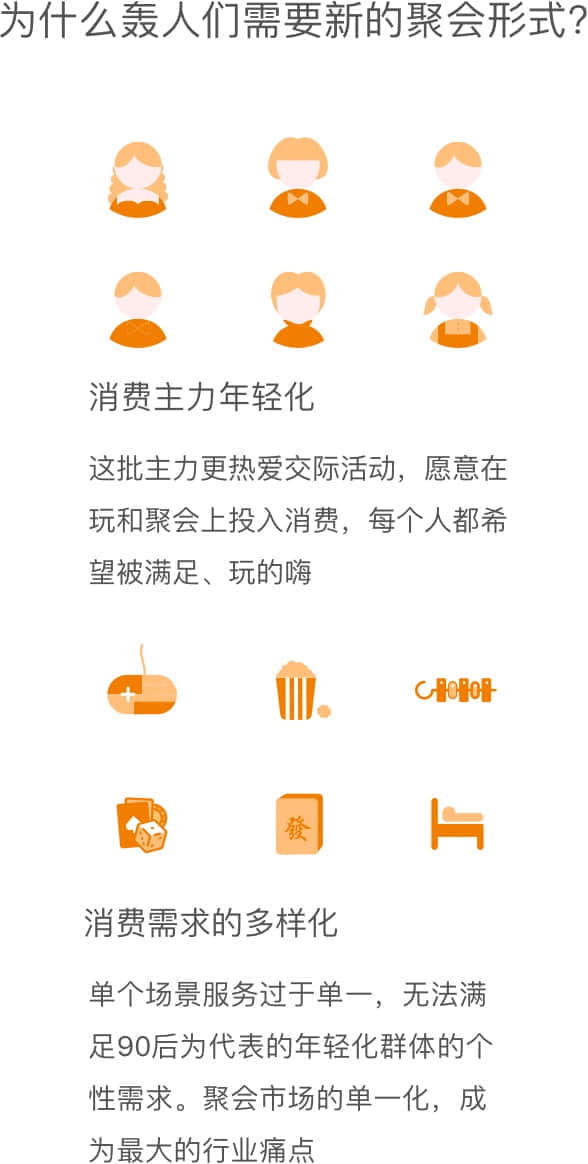
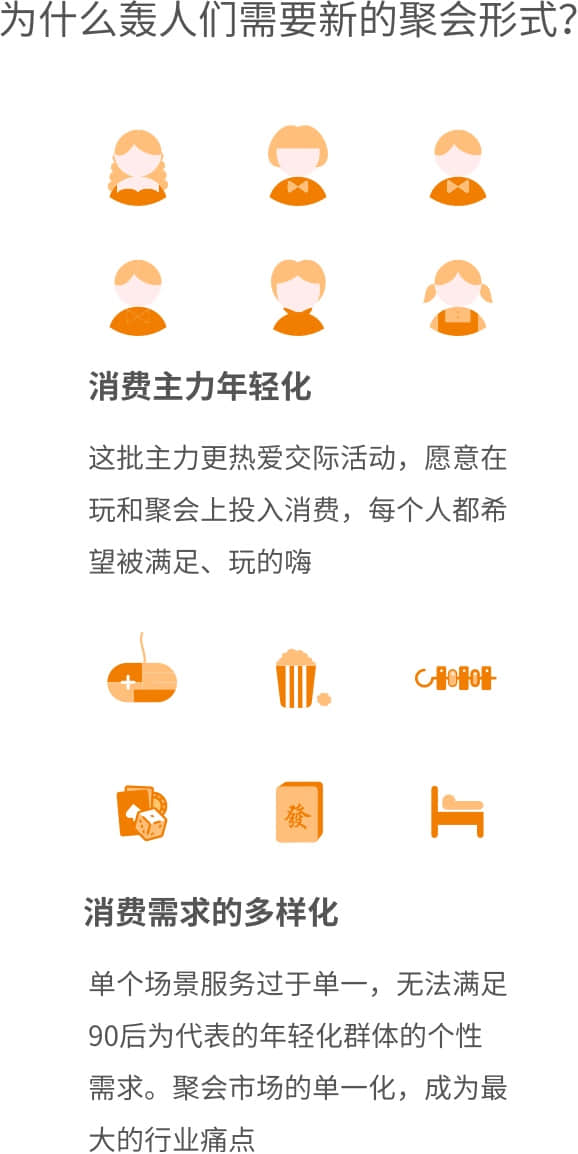
add

diff --git a/src/pages/home.vue b/src/pages/home.vue
@@ -25,17 +25,17 @@
                     <div class="p1" :layout="isMobile?'column':'row'" style="width:80%;">
                         <div class="p1-item text-center" flex="1">
                             <img src="../../static/images/h-s2-1.png" alt="">
-                            <div class="title2 text-l2">轰趴</div>
+                            <div class="title2 text-l2 font-bold">什么是轰趴</div>
                             <span class="p2 text-l1">将单一娱乐场地或活动进行集中，让人在一个空间能体验多个空间的娱乐</span>
                         </div>
                         <div class="p1-item text-center" flex="1">
                             <img src="../../static/images/h-s2-2.png" alt="">
-                            <div class="title2 text-l2">行业机遇</div>
+                            <div class="title2 text-l2 font-bold">行业机遇</div>
                             <span class="p2 text-l1">聚会需求大，市场聚会方式单一，已有的轰趴服务质量不一，极待升级</span>
                         </div>
                         <div class="p1-item text-center" flex="1">
                             <img src="../../static/images/h-s2-3.png" alt="">
-                            <div class="title2 text-l2">市场环境</div>
+                            <div class="title2 text-l2 font-bold">市场环境</div>
                             <span class="p2 text-l1">消费主力年轻化，消费需求的多样化，消费能力水平日渐提高</span>
                         </div>
                     </div>
@@ -50,7 +50,7 @@
                         <svg class="icon lingdai" aria-hidden="true">
                             <use xlink:href="#icon-lingdai"></use>
                         </svg>
-                        <div class="title text-l2">品牌宗旨</div>
+                        <div class="title text-l2 font-bold">品牌宗旨</div>
                         <span class="text-l2">一站式服务</span><br>
                         <span class="text-l2">标准化管理</span><br>
                         <span class="text-l2">管家式服务</span>
@@ -59,7 +59,7 @@
                         <svg class="icon tianping" aria-hidden="true">
                             <use xlink:href="#icon-tianping"></use>
                         </svg>
-                        <div class="title text-l2">竞争优势</div>
+                        <div class="title text-l2 font-bold">竞争优势</div>
                         <span class="text-l2">强大而健全的团队</span><br>
                         <span class="text-l2">强大的品牌影响力</span><br>
                         <span class="text-l2">前沿的服务理念</span>
@@ -68,7 +68,7 @@
                         <svg class="icon duoyuanhua" aria-hidden="true">
                             <use xlink:href="#icon-duoyuanhua"></use>
                         </svg>
-                        <div class="title text-l2">多元化盈利</div>
+                        <div class="title text-l2 font-bold">多元化盈利</div>
                         <span class="text-l2">拓展轰趴周边的盈利模式</span><br>
                         <span class="text-l2">挖掘更新鲜的玩法</span><br>
                         <span class="text-l2">多元化盈利</span>
@@ -77,7 +77,7 @@
                         <svg class="icon zhanlue" aria-hidden="true">
                             <use xlink:href="#icon-zhanlue"></use>
                         </svg>
-                        <div class="title text-l2">战略优势</div>
+                        <div class="title text-l2 font-bold">战略优势</div>
                         <span class="text-l2">2个基本点：装修+定制</span><br>
                         <span class="text-l2">3大核心：服务+SEO+地推</span>
                     </div>
@@ -92,7 +92,7 @@
                         <div layout="column" layout-align="start center">
                             <div class="text-left">
                                 <span class="fs-18" style="line-height: 25px;">已有加盟店</span><br>
-                                <span class="fs-36" style="line-height: 50px;">27个</span>
+                                <span class="fs-36 font-bold" style="line-height: 50px;">27个</span>
                             </div>
                         </div>
                     </div>
@@ -100,7 +100,7 @@
                         <div layout="column" layout-align="start center">
                             <div class="text-left">
                                 <span class="fs-18" style="line-height: 25px;">已入驻</span><br>
-                                <span class="fs-36" style="line-height: 50px;">5个城市</span>
+                                <span class="fs-36 font-bold" style="line-height: 50px;">5个城市</span>
                             </div>
                         </div>
                     </div>
@@ -108,7 +108,7 @@
                         <div layout="column" layout-align="start center">
                             <div class="text-left">
                                 <span class="fs-18" style="line-height: 25px;">已有加盟商</span><br>
-                                <span class="fs-36" style="line-height: 50px;">99人</span>
+                                <span class="fs-36 font-bold" style="line-height: 50px;">99人</span>
                             </div>
                         </div>
                     </div>
@@ -116,7 +116,7 @@
                         <div layout="column" layout-align="start center">
                             <div class="text-left">
                                 <span class="fs-18" style="line-height: 25px;">品牌团队</span><br>
-                                <span class="fs-36" style="line-height: 50px;">30人</span>
+                                <span class="fs-36 font-bold" style="line-height: 50px;">30人</span>
                             </div>
                         </div>
                     </div>
@@ -173,7 +173,7 @@
                     <img src="../../static/images/story-1-cover.jpg" alt="" class="width100">
                     <div class="label"><span>加盟人故事</span></div>
                     <div class="text">
-                        <span class="fs-20">因为不甘平庸，所以一直在路上</span><br>
+                        <span class="sub-title font-bold">因为不甘平庸，所以一直在路上</span><br>
                         <span>毕业于浙江科技大学的阿豪，从小学开始就一个人在老</span><br>
                         <span>家，成长环境相对自由，所以性格相对大胆喜欢尝试新…</span>
                     </div>
@@ -185,22 +185,22 @@
                 <div layout="row" layout-wrap class="body">
                     <div flex="1" flex-xs="100" class="comment-item">
                         <img src="../../static/images/customer1.png" alt=""><br><br>
-                        <span class="fs-24 text-l2">周子周</span><br>
+                        <span class="fs-24 text-l2 font-bold">周子周</span><br>
                         <span class="fs-16 text-l2">我是用来接亲的，朋友晚上过去的都说这套别墅太棒了，好多朋友都吹捧，倍儿有感觉😄😄婚礼配上欧式风格高大上，我的眼光真不错，感谢慢姑娘别墅提供给我这么优秀的地方，我会向朋友大力推荐哦</span>
                     </div>
                     <div flex="1" flex-xs="100" class="comment-item">
                         <img src="../../static/images/customer2.png" alt=""><br><br>
-                        <span class="fs-24 text-l2">鲜森张</span><br>
+                        <span class="fs-24 text-l2 font-bold">鲜森张</span><br>
                         <span class="fs-16 text-l2">很开心的一次轰趴，整套别墅很大，在东湖边上，店长小哥很热情，我们下午到的，院子里有游泳池，小哥为我们泳池换新水！！户外院子BBQ也很嗨皮，慢姑娘别墅轰趴都有直接对接配送的，不需要我们大热天跑去超市各种买还要自提过去！！最后提一下小哥服务真的贴心，据说还是今年才大学毕业的哦！！力荐！！</span>
                     </div>
                     <div flex="1" flex-xs="100" class="comment-item">
                         <img src="../../static/images/customer3.png" alt=""><br><br>
-                        <span class="fs-24 text-l2">萧萧萧</span><br>
+                        <span class="fs-24 text-l2 font-bold">萧萧萧</span><br>
                         <span class="fs-16 text-l2">真的是从未有过的体验，可以用享受来形容，以后不再愁没有地方聚会了，早点知道还有这样的地方就好了，大家玩的都很开心，店面很干净，服务态度也是特亲切，以后我还要来😉</span>
                     </div>
                     <div flex="1" flex-xs="100" class="comment-item">
                         <img src="../../static/images/customer4.png" alt=""><br><br>
-                        <span class="fs-24 text-l2">兔萌</span><br>
+                        <span class="fs-24 text-l2 font-bold">兔萌</span><br>
                         <span class="fs-16 text-l2">第二次预订了，刚进来的时候感觉进错店，因为这个店已经重新装修，特别棒，很有情调，是欧式风格，很大气高端，卫生也很干净整洁，设施配套很齐全，很幽静。最喜欢4楼的阳台，静静的看着东湖，静静的享受自然，很清新，舒适。。</span>
                     </div>
                 </div>
@@ -213,28 +213,28 @@
                         <el-carousel-item>
                             <div class="comment-item">
                                 <img src="../../static/images/customer1.png" style="width: 100px!important;height:100px!important;" alt=""><br><br>
-                                <span class="fs-24 text-l2">周子周</span><br>
+                                <span class="fs-24 text-l2 font-bold">周子周</span><br>
                                 <span class="fs-16 text-l2">我是用来接亲的，朋友晚上过去的都说这套别墅太棒了，好多朋友都吹捧，倍儿有感觉😄😄婚礼配上欧式风格高大上，我的眼光真不错，感谢慢姑娘别墅提供给我这么优秀的地方，我会向朋友大力推荐哦</span>
                             </div>
                         </el-carousel-item>
                         <el-carousel-item>
                             <div class="comment-item">
                                 <img src="../../static/images/customer2.png" style="width: 100px!important;height:100px!important;" alt=""><br><br>
-                                <span class="fs-24 text-l2">鲜森张</span><br>
+                                <span class="fs-24 text-l2 font-bold">鲜森张</span><br>
                                 <span class="fs-16 text-l2">很开心的一次轰趴，整套别墅很大，在东湖边上，店长小哥很热情，我们下午到的，院子里有游泳池，小哥为我们泳池换新水！！户外院子BBQ也很嗨皮，慢姑娘别墅轰趴都有直接对接配送的，不需要我们大热天跑去超市各种买还要自提过去！！最后提一下小哥服务真的贴心，据说还是今年才大学毕业的哦！！力荐！！</span>
                             </div>
                         </el-carousel-item>
                         <el-carousel-item>
                             <div class="comment-item">
                                 <img src="../../static/images/customer3.png" style="width: 100px!important;height:100px!important;" alt=""><br><br>
-                                <span class="fs-24 text-l2">萧萧萧</span><br>
+                                <span class="fs-24 text-l2 font-bold">萧萧萧</span><br>
                                 <span class="fs-16 text-l2">真的是从未有过的体验，可以用享受来形容，以后不再愁没有地方聚会了，早点知道还有这样的地方就好了，大家玩的都很开心，店面很干净，服务态度也是特亲切，以后我还要来😉</span>
                             </div>
                         </el-carousel-item>
                         <el-carousel-item>
                             <div class="comment-item">
                                 <img src="../../static/images/customer4.png" style="width: 100px!important;height:100px!important;" alt=""><br><br>
-                                <span class="fs-24 text-l2">兔萌</span><br>
+                                <span class="fs-24 text-l2 font-bold">兔萌</span><br>
                                 <span class="fs-16 text-l2">第二次预订了，刚进来的时候感觉进错店，因为这个店已经重新装修，特别棒，很有情调，是欧式风格，很大气高端，卫生也很干净整洁，设施配套很齐全，很幽静。最喜欢4楼的阳台，静静的看着东湖，静静的享受自然，很清新，舒适。。</span>
                             </div>
                         </el-carousel-item>
@@ -716,6 +716,11 @@
                     top:0;
                     left:0;
                 }
+                .label span{
+                    padding: 0px 10px; 
+                    height: 20px;
+                    line-height: 20px;
+                }
                 .text{
                     position: absolute;
                     bottom:0;
@@ -727,6 +732,10 @@
                     line-height: 26px;
                     background-color: rgba(0,0,0,0.2);
                     width:100%;
+                    .sub-title{
+                        font-weight: bold;
+                        font-size: 1.6rem;
+                    }
                 }
             }
         }
@@ -741,6 +750,9 @@
             width: 10px;
             height: 10px;
             border-radius: 50%;
+        }
+        .el-carousel__item{
+            background-color: #F17E01;
         }
         // .el-carousel__indicators{
         //     left: 50%;

diff --git a/src/pages/introduce.vue b/src/pages/introduce.vue
@@ -141,7 +141,7 @@
         </div>
         <div v-else class="section5 relative">
             <hp-image src="./static/images/s5-bg.jpg" :has-cover="false" alt=""></hp-image>
-            <div class="s1-text-wrap image-text-wrap" layout="column" layout-align="center center">
+            <div class="s1-text-wrap image-text-wrap">
                 <div class="title fs-20">市场潜力分析</div>
                 <div class="icon-wrap" layout="row" layout-align="space-around center">
                     <div class="icon-circle" :class="{'checked':s5CheckedIndex===1}" @click="s5CheckedIndex=1">
@@ -162,9 +162,15 @@
                     </div>
                 </div>
                 <div class="section-image">
-                    <img v-show="s5CheckedIndex===1" src="../../static/images/s5-section1.png" alt="" @touchstart="touchStart" @touchmove="touchMove" @touchend="touchEnd">
-                    <img v-show="s5CheckedIndex===2" src="../../static/images/s5-section2.png" alt="" @touchstart="touchStart" @touchmove="touchMove" @touchend="touchEnd">
-                    <img v-show="s5CheckedIndex===3" src="../../static/images/s5-section3.png" alt="" @touchstart="touchStart" @touchmove="touchMove" @touchend="touchEnd">
+                    <transition name="fade">
+                        <img v-show="s5CheckedIndex===1" src="../../static/images/s5-section1.png" alt="" @touchstart="touchStart" @touchmove="touchMove" @touchend="touchEnd">
+                    </transition>
+                    <transition name="fade">
+                        <img v-show="s5CheckedIndex===2" src="../../static/images/s5-section2.png" alt="" @touchstart="touchStart" @touchmove="touchMove" @touchend="touchEnd">
+                    </transition>
+                    <transition name="fade">
+                        <img v-show="s5CheckedIndex===3" src="../../static/images/s5-section3.png" alt="" @touchstart="touchStart" @touchmove="touchMove" @touchend="touchEnd">
+                    </transition>
                 </div>
                 <div style="position:absolute;bottom:15px;left: 50%;transform: translateX(-50%);-ms-transform: translateX(-50%);">
                     <span class="team-indicator-item" :class="{'checked': s5CheckedIndex===1}"></span>
@@ -356,11 +362,14 @@
             }
         }
         .section5{
+            text-align: center;
             .title{
                 margin-bottom: 10px;
+                margin-top: 30px;
             }
             .icon-wrap{
                 width: 70%;
+                margin-left: 15%;
                 margin-bottom: 10px;
                 .icon-circle{
                     border-radius: 50%;
@@ -385,7 +394,9 @@
             .section-image{
                 img{
                     width: 90%;
-                    margin-left: 5%;
+                    position: absolute;
+                    top:120px; 
+                    left: 5%;
                 }
             }
             .team-indicator-item{
@@ -403,4 +414,13 @@
             }
         }
     }
+        .fade-enter-active, .fade-leave-active {
+            transition: all .5s;
+            // transform: translate(100%, 0);
+        }
+        .fade-enter, .fade-leave-to /* .fade-leave-active below version 2.1.8 */ {
+            // left: 100%;
+            // transform: translate(-100% 0);
+            opacity: 0;
+        }
 </style>

diff --git a/src/pages/story.vue b/src/pages/story.vue
@@ -43,7 +43,7 @@
                         <img :src="item.cover" alt="" class="width100">
                         <div class="label"><span>{{item.label}}</span></div>
                         <div class="text">
-                            <span class="fs-20">{{item.title}}</span><br>
+                            <span class="sub-title">{{item.title}}</span><br>
                             <!-- <span>毕业于浙江科技大学的阿豪，从小学开始就一个人在老</span><br>
                             <span>家，成长环境相对自由，所以性格相对大胆喜欢尝试新…</span> -->
                             <div class="content" v-html="item.content.substr(0, 50)+'...'"></div>
@@ -96,7 +96,7 @@
                         <img :src="item.cover" alt="" class="width100">
                         <div class="label"><span>{{item.label}}</span></div>
                         <div class="text">
-                            <span class="fs-20">{{item.title}}</span><br>
+                            <span class="sub-title">{{item.title}}</span><br>
                             <!-- <span>毕业于浙江科技大学的阿豪，从小学开始就一个人在老</span><br>
                             <span>家，成长环境相对自由，所以性格相对大胆喜欢尝试新…</span> -->
                             <div class="content" v-html="item.content.substr(0, 50)+'...'"></div>
@@ -156,6 +156,7 @@
                 margin-top: 20px;
                 font-size: 2.4rem;
                 line-height: 36px;
+                font-weight: bold;
             }
             .content{
                 font-size: 1.8rem;
@@ -224,9 +225,9 @@
                 }
                 .label span{
                     display: inline-block;
-                    padding: 0px 20px; 
-                    height: 36px;
-                    line-height: 36px;
+                    padding: 0px 10px; 
+                    height: 20px;
+                    line-height: 20px;
                     background-color: $primary-color;
                     color: #fff;
                 }
@@ -241,6 +242,10 @@
                     line-height: 26px;
                     // background-color: rgba(0,0,0,0.2);
                     background:-webkit-gradient(linear, 0 0, 0 bottom, from(rgba(0,0,0,0)), to(rgba(27,27,27, 0.69)));
+                    .sub-title{
+                        font-weight: bold;
+                        font-size: 1.6rem;
+                    }
                 }
             }
         }

diff --git a/src/pages/brand.vue b/src/pages/brand.vue
@@ -47,21 +47,21 @@
                         <svg class="icon yizhanshi fs-60" aria-hidden="true">
                             <use xlink:href="#icon-yizhanshi"></use>
                         </svg><br><br>
-                        <div class="text-l2">一站式服务</div><br>
+                        <div class="text-l2 font-bold">一站式服务</div><br>
                         <div class="text-l1">为客户提供吃、喝、玩、住一站式服务，打造多种娱乐场景的集合，更适合年轻人聚会的轰趴品牌</div>
                     </div>
                     <div class="p1-item text-center" flex="1">
                         <svg class="icon dunpai fs-60" aria-hidden="true">
                             <use xlink:href="#icon-dunpai"></use>
                         </svg><br><br>
-                        <div class="text-l2">标准化管理</div><br>
+                        <div class="text-l2 font-bold">标准化管理</div><br>
                         <div class="text-l1">打造轰趴行业标准化管理的行业准则，让客户享受到轰趴行业的五星级服务</div>
                     </div>
                     <div class="p1-item text-center" flex="1">
                         <svg class="icon guanjia fs-60" aria-hidden="true">
                             <use xlink:href="#icon-guanjia"></use>
                         </svg><br><br>
-                        <div class="text-l2">管家式服务</div><br>
+                        <div class="text-l2 font-bold">管家式服务</div><br>
                         <div class="text-l1">通过专业化培训，让每位管家=初级厨师+活动策划师+布场达人+轰趴运营专员</div>
                     </div>
                 </div>

diff --git a/src/pages/store-detail.vue b/src/pages/store-detail.vue
@@ -6,17 +6,17 @@
             <div layout="row" layout-align="center space-around" class="text-left" style="margin-top: 30px;" layout-wrap>
                 <div flex="10" flex-xs="0"></div>
                 <div class="place" flex="30" flex-xs="100">
-                    <span class="fs-20">配备</span><br>
+                    <span class="fs-20 font-bold">配备</span><br>
                     <span class="fs-16">{{store.playItems}}</span>
                 </div>
                 <div class="price" flex="25" flex-xs="100">
-                    <span class="fs-20">价格</span><br>
+                    <span class="fs-20 font-bold">价格</span><br>
                     <span class="fs-16">周一至周四：{{store.priceWorkday==='未知'?'? ':store.priceWorkday}}元/场</span><br>
                     <span class="fs-16">周五至周日：{{store.priceWeekend}}元/场</span><br>
                     <span class="fs-16">周五至周日：{{store.allPrice}}元/场</span>
                 </div>
                 <div class="open-time" flex="25" flex-xs="100">
-                    <span class="fs-20">预定</span><br>
+                    <span class="fs-20 font-bold">预定</span><br>
                     <span class="fs-16">预定电话：{{store.orderNumber}}&nbsp;<a class="call-phone" :href="`tel:${store.orderNumber}`">拨打</a></span><br>
                     <span class="fs-16">营业时间：{{store.openTime}}</span><br>
                     <span class="fs-16">&nbsp;</span>

diff --git a/src/pages/story-detail.vue b/src/pages/story-detail.vue
@@ -10,7 +10,7 @@
                 <span class="fs-16">人物：{{storyModel.storyName}}</span>
             </div>
             <div flex="80" flex-xs="100" class="right-content">
-                <div class="title fs-24">{{storyModel.title}}</div>
+                <div class="title fs-24 font-bold">{{storyModel.title}}</div>
                 <!-- <div class="content fs-16">{{storyModel.content}}</div> -->
                 <div class="content fs-16 color-grey" v-for="(item, index) in storyModel.paragraph" :key="index" v-html="item">
                 </div>

diff --git a/src/styles/_base.scss b/src/styles/_base.scss
@@ -53,6 +53,10 @@ html,body {
   textarea:-ms-input-placeholder {
     color: #D8D8D8;
   }
+
+  .font-bold{
+    font-weight: bold;
+  }
   
   // Floats
   // -------------------------
